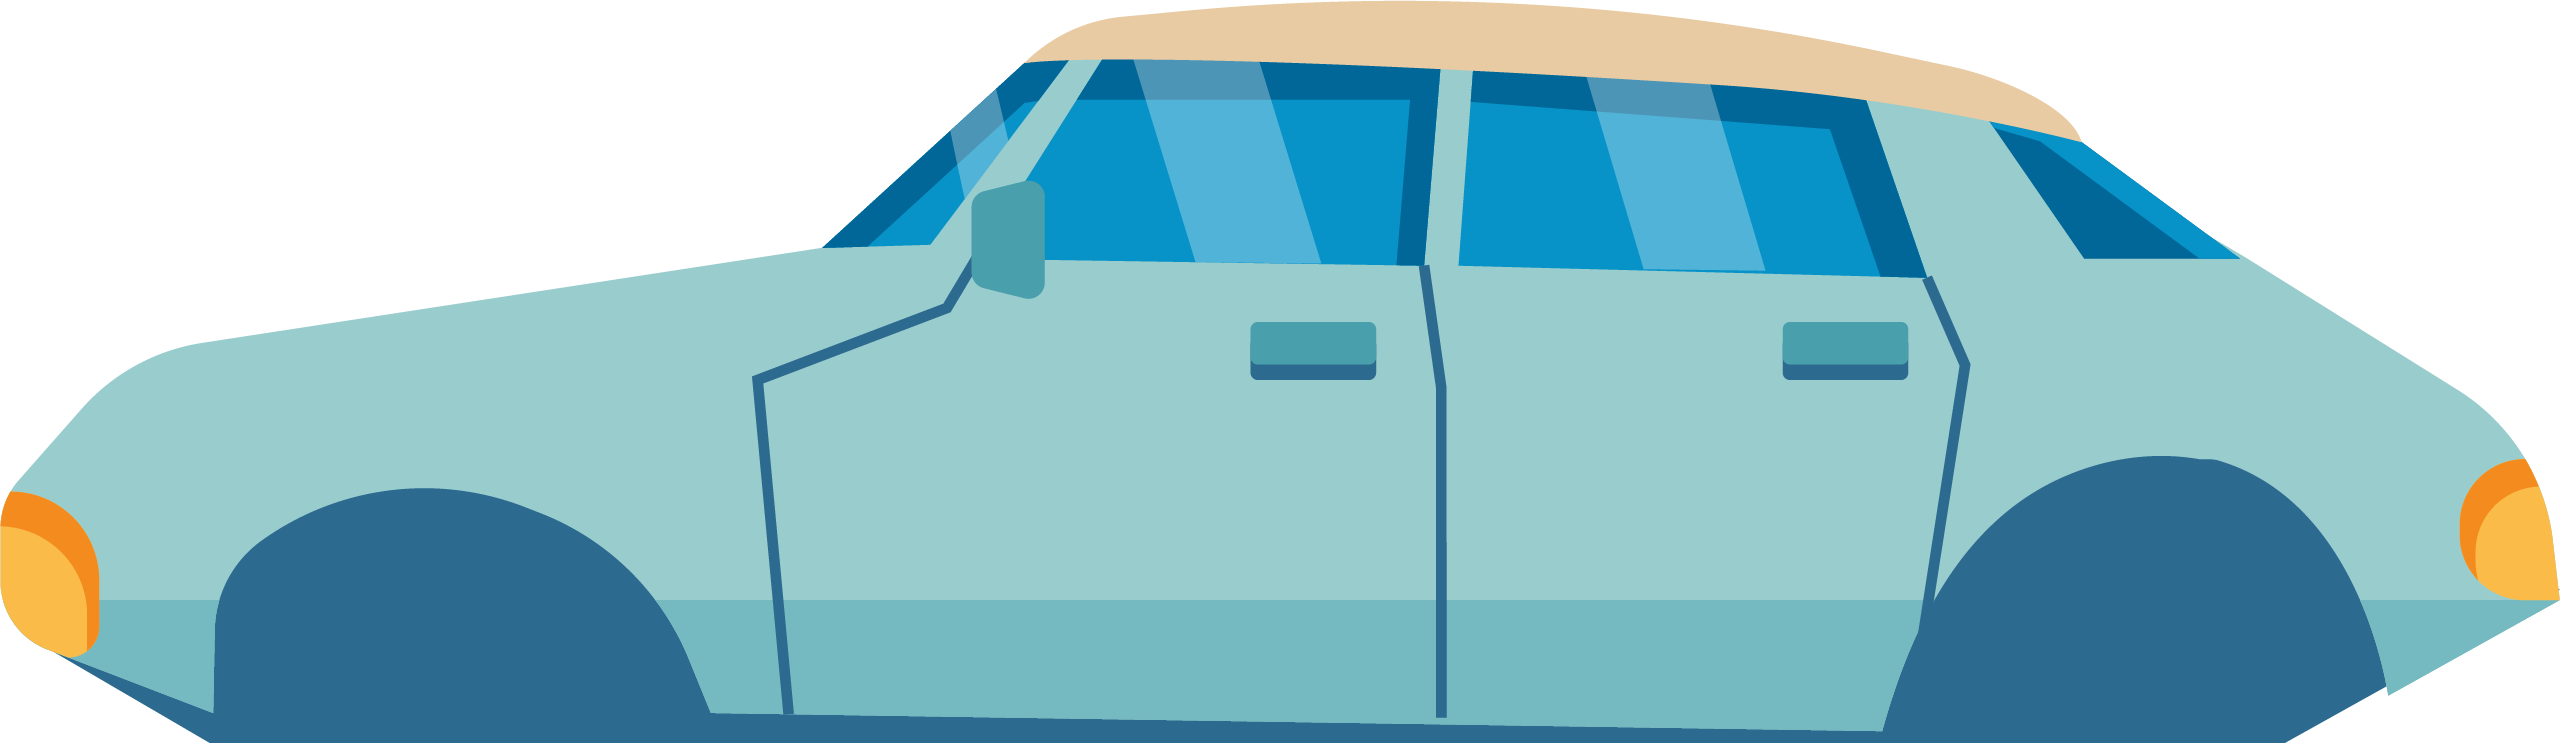
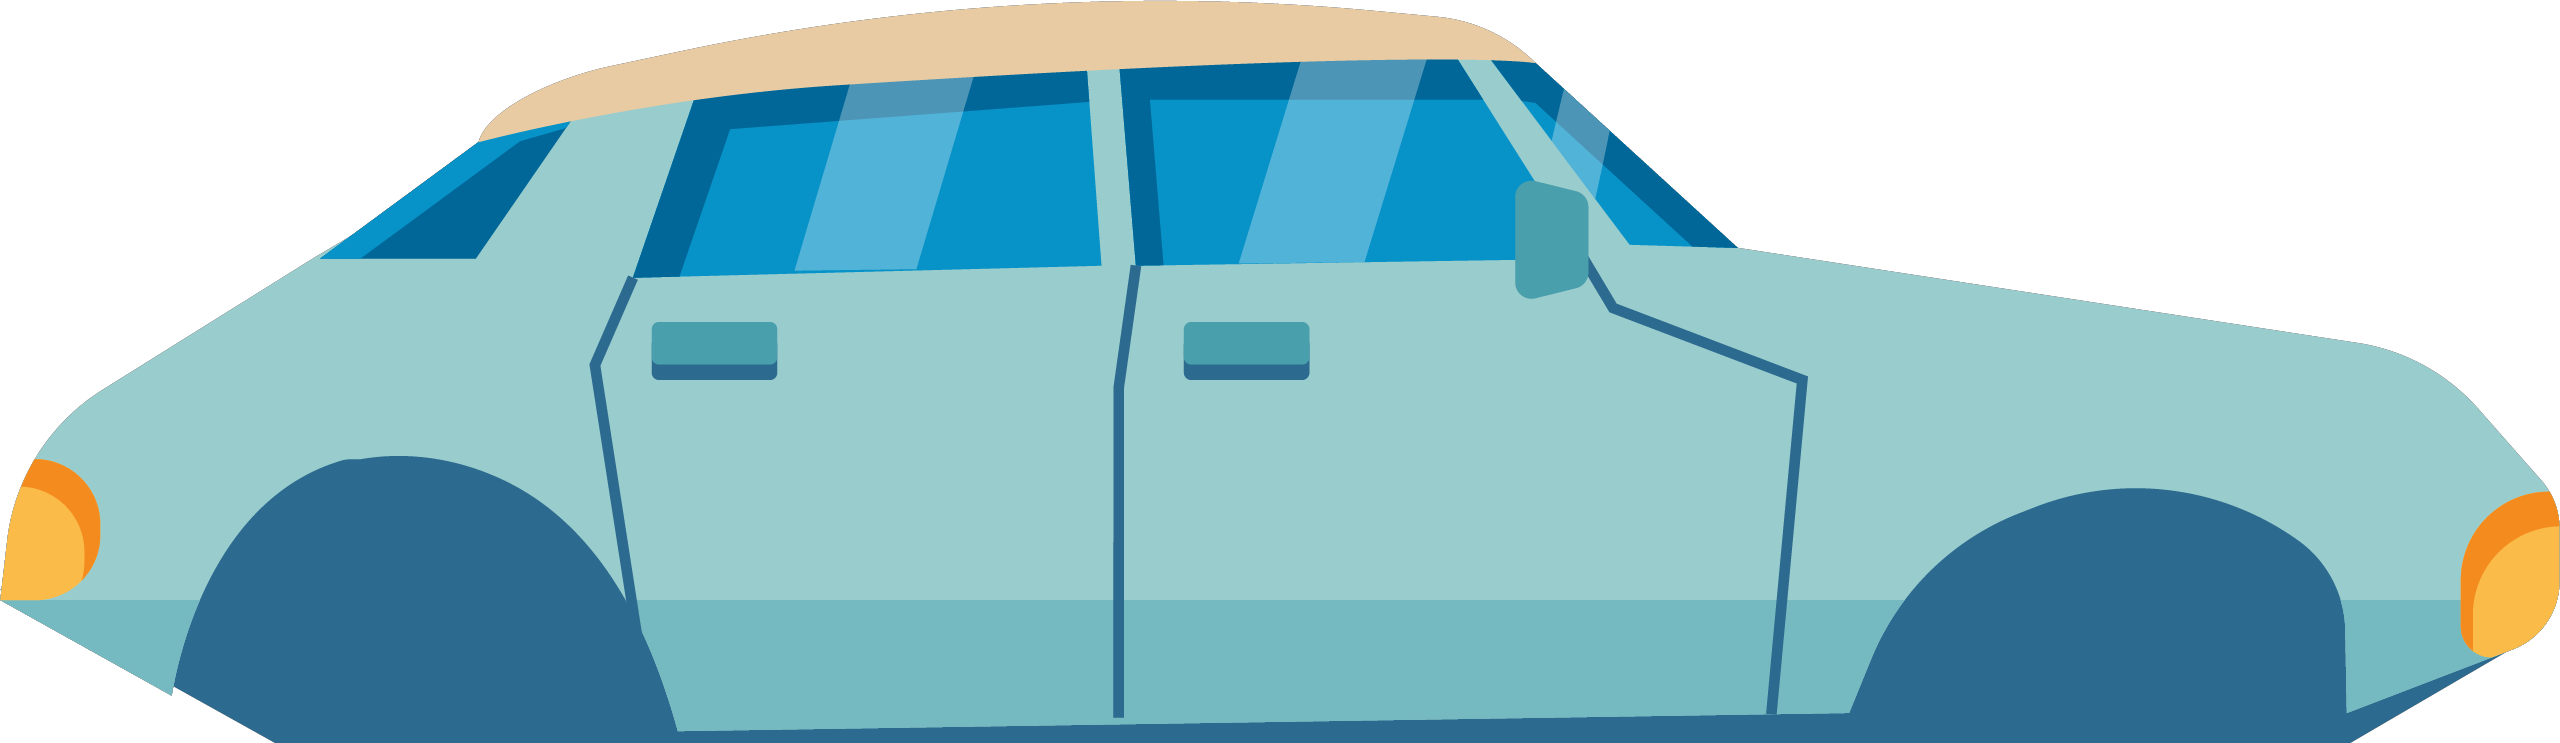
update car side

Changed region(s): [[0.0625, 0.0, 0.9375, 0.9906], [0.875, 0.6191, 1.0, 1.0], [0.0, 0.6191, 0.125, 1.0]]

diff --git a/src/components/Bgcars.css b/src/components/Bgcars.css
@@ -90,12 +90,12 @@
 }
 .back-wheel{
     top: 50px;
-    left: -128px;
+    left: -135px;
     position: absolute;
 }
 .front-wheel{
    top:20px;
-   left: 135px;
+   left: 129px;
    position: relative;
 }
 @keyframes wheel{
